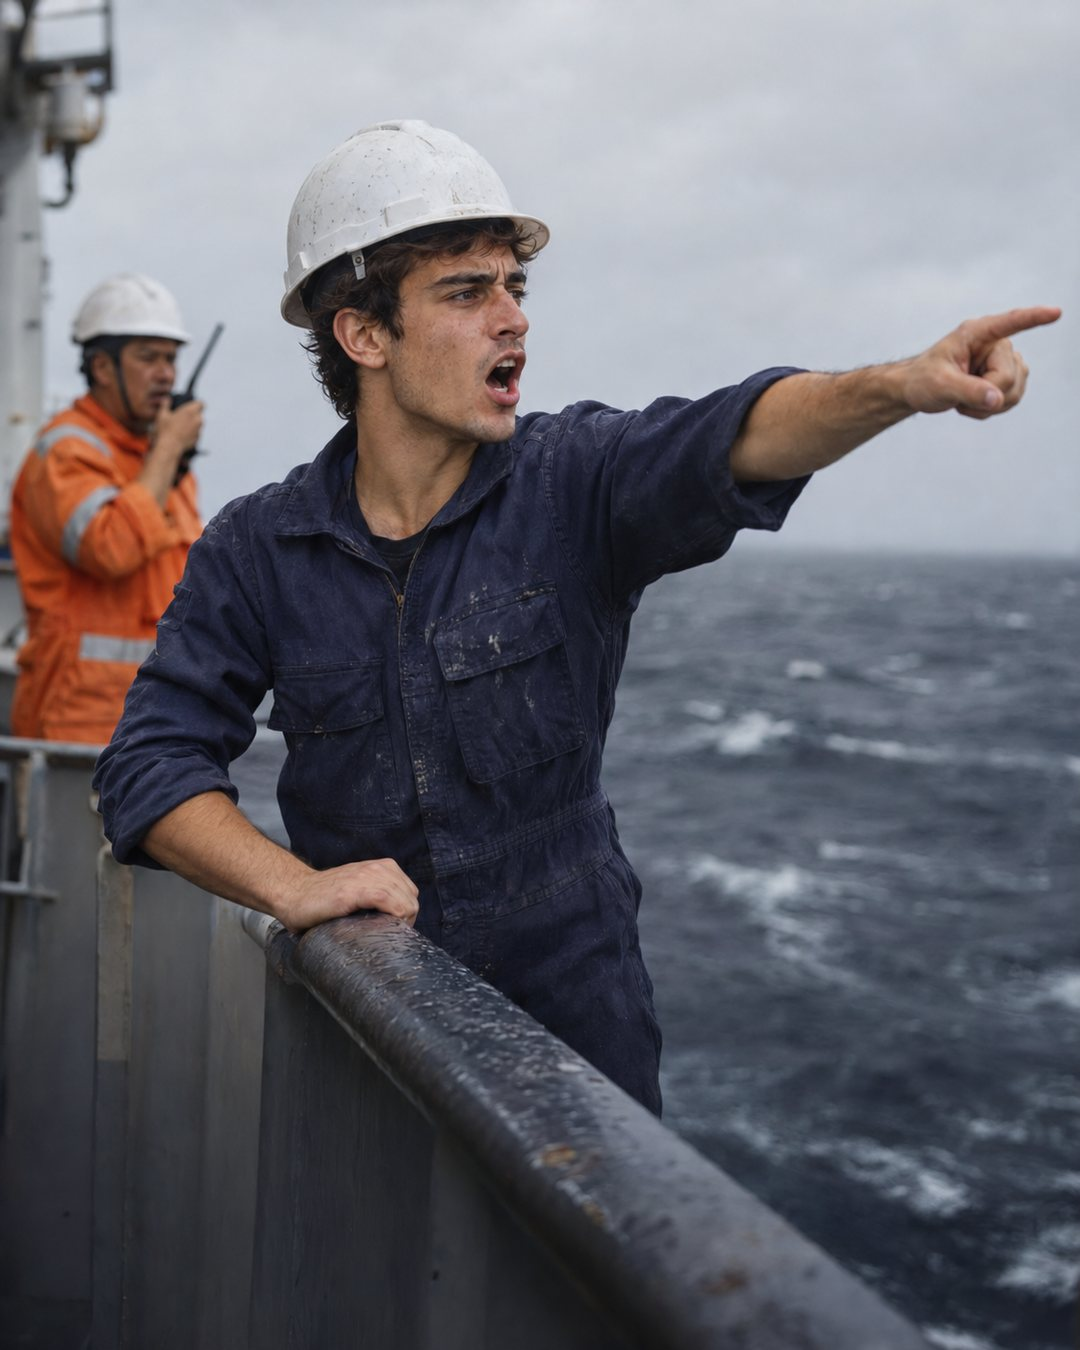
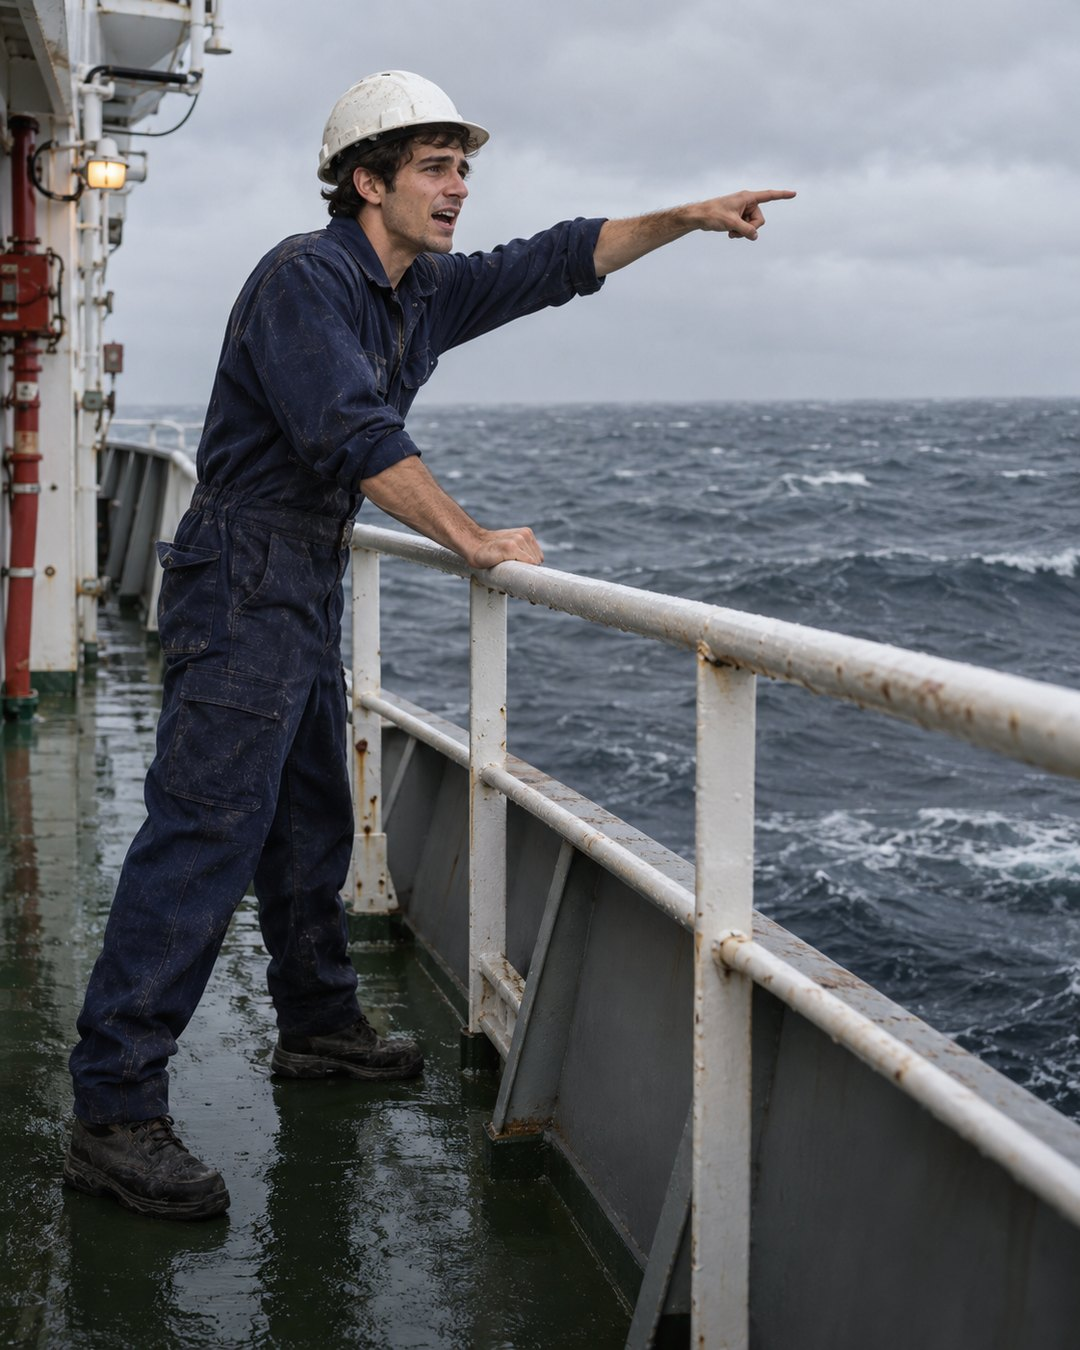
L22: portada y escena nuevas
Claude-Session: https://claude.ai/code/session_018u3t25bweqwpRuYCJD9QrU

diff --git a/sw.js b/sw.js
@@ -5,7 +5,7 @@
      background (see saveForOffline in app.js), so lessons work later without signal.
    - Audio is requested in byte ranges; ranges are answered from the cached full file.
    Bump VERSION whenever app.js / app.css / index.html change. */
-const VERSION = "eob-v64";
+const VERSION = "eob-v65";
 const MEDIA = "eob-media-v1";
 const SHELL = ["./", "index.html", "app.js", "app.css", "course.json", "manifest.webmanifest", "icons/app-icon-192.png", "icons/app-icon-512.png"];
 const IS_MEDIA = /\.(mp3|m4a|wav|ogg|jpe?g|png|webp|svg)$/i;

diff --git a/STATUS.md b/STATUS.md
@@ -60,7 +60,7 @@ JS sin frameworks ni build. Se publica sola en Cloudflare Workers al hacer push 
 2. Test final del curso + certificado único (al terminar las 27).
 3. Probar en iPhone/Safari.
 4. **Siguiente:** Módulo 3 completo (20 nov). Módulo 4 (L13–L16) completo el 20 nov (fotos, láminas y audios). Mateo (3/O) existe en la biblia pero todavía no habla en ninguna lección; su voz ya está (ElevenLabs "Alberto Loco"); cuando hable en una foto, necesita su ficha (`PENDING_CHARACTERS` en `tools/photos-build.py`).
-- **Fotos:** `python3 tools/photos-build.py` arma una sola página con todas las fotos pendientes del curso (`tools/out/fotos.html`); se publica siempre como el mismo artifact "Fotos pendientes" (https://claude.ai/artifact/ECkDhdAJ96VVo4tnKEjDDY: actualizarlo pasando esa URL). Ya no se publican kits por lección. Módulo 5 (L17–L20) escrito el 20 nov, todo el módulo en el Día 6, fondeados frente a Port Everglades: escenas y audios listos (20 nov) salvo **los 12 audios de Chen (L20): necesita voz** (`CAST.chen`); mientras tanto la dice el celular. Módulo 6 (L21–L24, Días 7–10, Atlántico) escrito el 20 nov: JSON, láminas y prompts listos; audios listos y escenas de L21, L23 y L24 listas (20 nov); **falta rehacer portada y escena de L22** (Diego aparecía fuera del barco). En L24 aparecen ABs sin voz propia solo por nombre (Santos, Bautista, Lim). **Siguiente: Módulo 7**, lecciones 25–27 (proponer primero, esperar aprobación; temario e historia en BIBLE.md).
+- **Fotos:** `python3 tools/photos-build.py` arma una sola página con todas las fotos pendientes del curso (`tools/out/fotos.html`); se publica siempre como el mismo artifact "Fotos pendientes" (https://claude.ai/artifact/ECkDhdAJ96VVo4tnKEjDDY: actualizarlo pasando esa URL). Ya no se publican kits por lección. Módulo 5 (L17–L20) escrito el 20 nov, todo el módulo en el Día 6, fondeados frente a Port Everglades: escenas y audios listos (20 nov) salvo **los 12 audios de Chen (L20): necesita voz** (`CAST.chen`); mientras tanto la dice el celular. Módulo 6 (L21–L24, Días 7–10, Atlántico) escrito el 20 nov: JSON, láminas y prompts listos; completo el 20 nov (fotos, láminas y audios). En L24 aparecen ABs sin voz propia solo por nombre (Santos, Bautista, Lim). **Siguiente: Módulo 7**, lecciones 25–27 (proponer primero, esperar aprobación; temario e historia en BIBLE.md).
 5. (hecho, 4 nov) Tarjeta "APP 04 · English on Board · Public beta" en la landing chartroomlab.com, con captura del inicio; se sube a mano como zip al proyecto de la landing en Cloudflare.
 6. Venta: cuentas y pagos (Cloudflare D1 + Stripe, Módulo 1 gratis), landing, chequeo de marca, aclarar que no es un curso aprobado por la OMI ni certifica STCW.
 

diff --git a/img/l22/prompts.md b/img/l22/prompts.md
@@ -1,6 +1,6 @@
 # Lesson 22 · Muster & man overboard · imágenes
 
-Día 8 · 10:00 · Atlántico, banda de estribor. La lámina (`plate.svg`) ya está dibujada Hay que rehacer la portada (`hero.jpg`) y después la escena del diálogo.
+Día 8 · 10:00 · Atlántico, banda de estribor. La lámina (`plate.svg`) ya está dibujada La portada (`hero.jpg`) y la escena (`scene.jpg`) ya están hechas.
 Referencias: **Diego**, **Tanya**, **Rolando** y la portada `hero.jpg`.
 
 **Regla:** personas y ambiente, nada técnico en foco ni texto legible.
@@ -10,7 +10,7 @@ Referencias: **Diego**, **Tanya**, **Rolando** y la portada `hero.jpg`.
 
 > Using the attached image as reference for the young man, his clothes, the deck, the rail and the grey sea: a horizontal medium-wide shot taken from the open deck of the same ship, camera on the deck behind the people, looking past them towards the sea. Everybody stands on the wet steel deck, inside the ship, behind the waist-high steel rail; their boots and the deck are visible. A 22-year-old young man [reference: diego] in a navy-blue boiler suit and white helmet leans on the rail with one hand and points out to sea with his arm fully extended. Next to him, also on the deck, a 41-year-old British woman, Chief Officer [reference: tanya], in a navy-blue boiler suit and white helmet speaks into a small plain black handheld radio, looking where he points. A few metres further along the same deck, a 46-year-old Filipino bosun [reference: rolando] in an orange boiler suit has just thrown an orange lifebuoy over the rail; it is in the air beyond the ship's side. Far away on the grey water, a small trail of orange smoke. Urgent but controlled mood of a drill. Documentary photograph, 35mm lens, natural light, realistic skin texture, real worn workwear, no visible text, no logos, no watermark.
 
-## `hero.jpg` · portada de la lección (rehacer: Diego quedaba fuera del barco)
+## `hero.jpg` · portada de la lección (ya hecha)
 - **Dónde se ve:** en la lista de lecciones (miniatura) y arriba de todo en la pantalla de la lección, con el título encima.
 - **Formato:** 4:5 vertical, mínimo 1080 × 1350.
 
